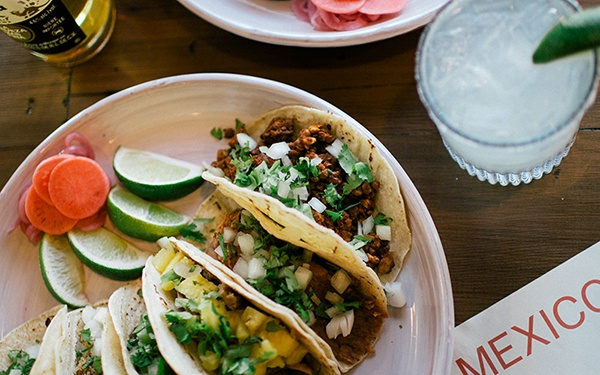
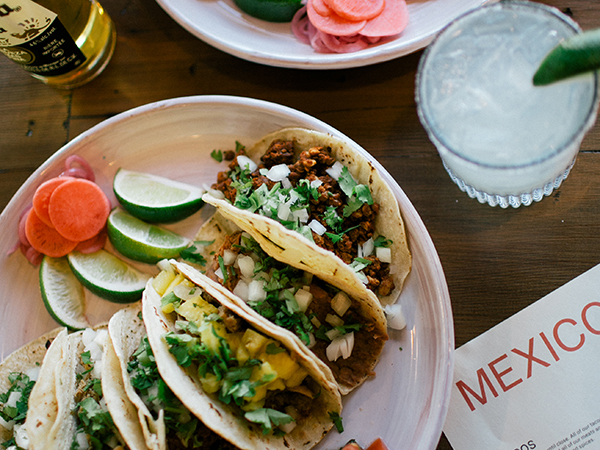
update seo info and main images

diff --git a/_site/404.html b/_site/404.html
@@ -6,13 +6,13 @@
   <meta http-equiv="X-UA-Compatible" content="IE=edge">
   <meta name="viewport" content="width=device-width, initial-scale=1">
 
-  <title>Mexico</title>
-  <meta name="description" content="Coffee • Cocktails • Tacos • Brunch">
+  <title>Mexico | Coffee • Cocktails • Tacos • Brunch</title>
+  <meta name="description" content="A cozy parkside café with vintage appeal inspired by the flavours and hospitality of Mexico.">
 
   <meta property="og:type" content="restaurant.restaurant">
-  <meta property="og:title" content="Mexico">
+  <meta property="og:title" content="Mexico | Coffee • Cocktails • Tacos • Brunch">
   <meta property="og:url" content="https://www.cafemexico.ca">
-  <meta property="og:description" content="Coffee • Cocktails • Tacos • Brunch">
+  <meta property="og:description" content="A cozy parkside café with vintage appeal inspired by the flavours and hospitality of Mexico.">
   <meta property="og:image" content="https://www.cafemexico.ca/assets/mexico-og.jpg">
   <meta property="restaurant:contact_info:website" content="https://www.cafemexico.ca">
   <meta property="restaurant:contact_info:locality" content="Sarnia">
@@ -89,7 +89,7 @@
 
   <link rel="stylesheet" href="/assets/main.css">
   <link rel="canonical" href="https://www.cafemexico.ca/404.html">
-  <link rel="alternate" type="application/rss+xml" title="Mexico" href="/feed.xml">
+  <link rel="alternate" type="application/rss+xml" title="Mexico | Coffee • Cocktails • Tacos • Brunch" href="/feed.xml">
 
   <script type="text/javascript" src="/assets/instafeed.min.js"></script>
 

diff --git a/_site/index.html b/_site/index.html
@@ -6,13 +6,13 @@
   <meta http-equiv="X-UA-Compatible" content="IE=edge">
   <meta name="viewport" content="width=device-width, initial-scale=1">
 
-  <title>Mexico</title>
-  <meta name="description" content="Coffee • Cocktails • Tacos • Brunch">
+  <title>Mexico | Coffee • Cocktails • Tacos • Brunch</title>
+  <meta name="description" content="A cozy parkside café with vintage appeal inspired by the flavours and hospitality of Mexico.">
 
   <meta property="og:type" content="restaurant.restaurant">
-  <meta property="og:title" content="Mexico">
+  <meta property="og:title" content="Mexico | Coffee • Cocktails • Tacos • Brunch">
   <meta property="og:url" content="https://www.cafemexico.ca">
-  <meta property="og:description" content="Coffee • Cocktails • Tacos • Brunch">
+  <meta property="og:description" content="A cozy parkside café with vintage appeal inspired by the flavours and hospitality of Mexico.">
   <meta property="og:image" content="https://www.cafemexico.ca/assets/mexico-og.jpg">
   <meta property="restaurant:contact_info:website" content="https://www.cafemexico.ca">
   <meta property="restaurant:contact_info:locality" content="Sarnia">
@@ -89,7 +89,7 @@
 
   <link rel="stylesheet" href="/assets/main.css">
   <link rel="canonical" href="https://www.cafemexico.ca/">
-  <link rel="alternate" type="application/rss+xml" title="Mexico" href="/feed.xml">
+  <link rel="alternate" type="application/rss+xml" title="Mexico | Coffee • Cocktails • Tacos • Brunch" href="/feed.xml">
 
   <script type="text/javascript" src="/assets/instafeed.min.js"></script>
 

diff --git a/_site/about/index.html b/_site/about/index.html
@@ -7,12 +7,12 @@
   <meta name="viewport" content="width=device-width, initial-scale=1">
 
   <title>About</title>
-  <meta name="description" content="Coffee • Cocktails • Tacos • Brunch">
+  <meta name="description" content="A cozy parkside café with vintage appeal inspired by the flavours and hospitality of Mexico.">
 
   <meta property="og:type" content="restaurant.restaurant">
-  <meta property="og:title" content="Mexico">
+  <meta property="og:title" content="Mexico | Coffee • Cocktails • Tacos • Brunch">
   <meta property="og:url" content="https://www.cafemexico.ca">
-  <meta property="og:description" content="Coffee • Cocktails • Tacos • Brunch">
+  <meta property="og:description" content="A cozy parkside café with vintage appeal inspired by the flavours and hospitality of Mexico.">
   <meta property="og:image" content="https://www.cafemexico.ca/assets/mexico-og.jpg">
   <meta property="restaurant:contact_info:website" content="https://www.cafemexico.ca">
   <meta property="restaurant:contact_info:locality" content="Sarnia">
@@ -89,7 +89,7 @@
 
   <link rel="stylesheet" href="/assets/main.css">
   <link rel="canonical" href="https://www.cafemexico.ca/about/">
-  <link rel="alternate" type="application/rss+xml" title="Mexico" href="/feed.xml">
+  <link rel="alternate" type="application/rss+xml" title="Mexico | Coffee • Cocktails • Tacos • Brunch" href="/feed.xml">
 
   <script type="text/javascript" src="/assets/instafeed.min.js"></script>
 

diff --git a/_includes/head.html b/_includes/head.html
@@ -7,9 +7,9 @@
   <meta name="description" content="{{ page.excerpt | default: site.description | strip_html | normalize_whitespace | truncate: 160 | escape }}">
 
   <meta property="og:type" content="restaurant.restaurant">
-  <meta property="og:title" content="Mexico">
+  <meta property="og:title" content="Mexico | Coffee • Cocktails • Tacos • Brunch">
   <meta property="og:url" content="https://www.cafemexico.ca">
-  <meta property="og:description" content="Coffee • Cocktails • Tacos • Brunch">
+  <meta property="og:description" content="A cozy parkside café with vintage appeal inspired by the flavours and hospitality of Mexico.">
   <meta property="og:image" content="https://www.cafemexico.ca/assets/mexico-og.jpg">
   <meta property="restaurant:contact_info:website" content="https://www.cafemexico.ca">
   <meta property="restaurant:contact_info:locality" content="Sarnia">

diff --git a/_site/assets/main.css b/_site/assets/main.css
@@ -274,7 +274,7 @@ a.btn {
     .banner-img {
       background: url(mexico-sm.jpg) no-repeat center center;
       background-size: cover;
-      padding-top: calc(5/8 * 100%); } }
+      padding-top: calc(3/4 * 100%); } }
 
 /**
  * Home page

diff --git a/_sass/minima/_layout.scss b/_sass/minima/_layout.scss
@@ -164,7 +164,7 @@ a.btn {
   @include media-query($on-palm) {
     background: url(mexico-sm.jpg) no-repeat center center;
     background-size: cover;
-    padding-top: calc(5/8 * 100%);
+    padding-top: calc(3/4 * 100%);
   }
 }
 
